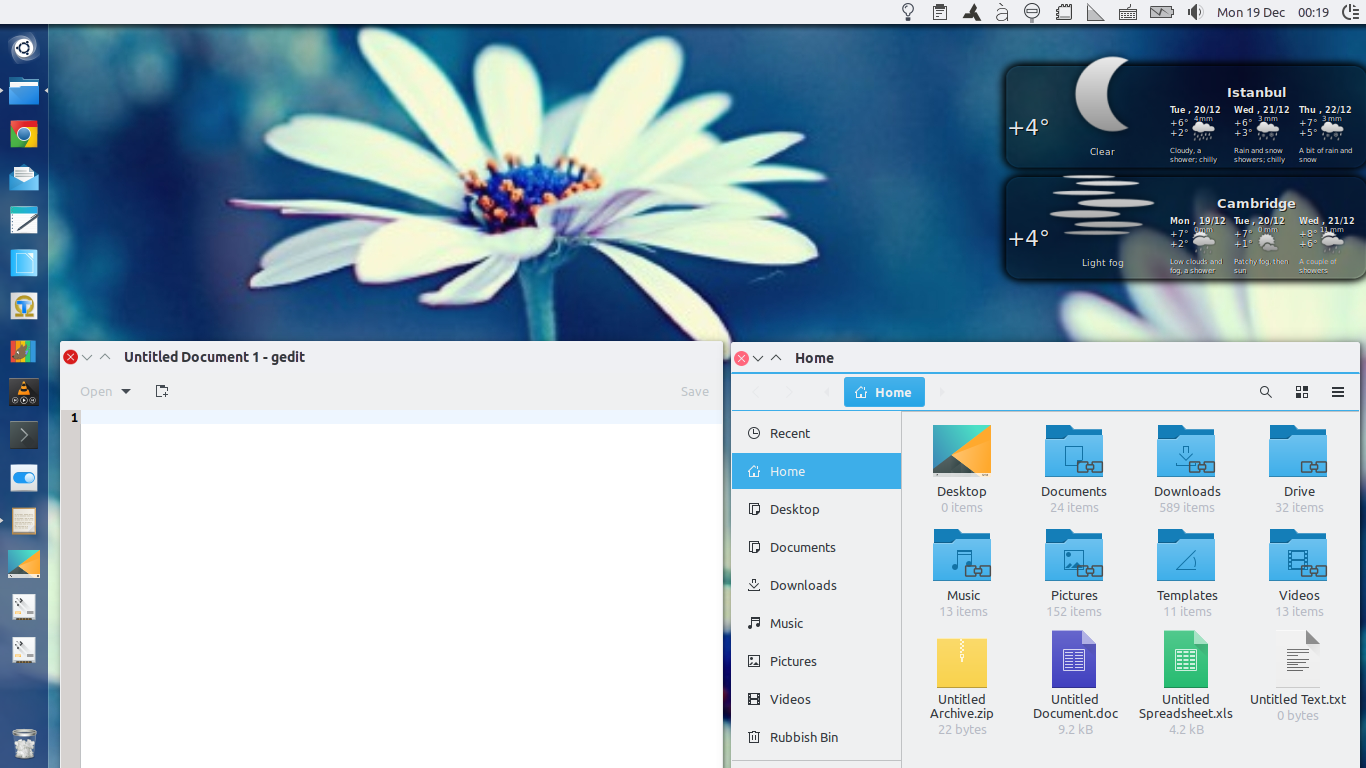
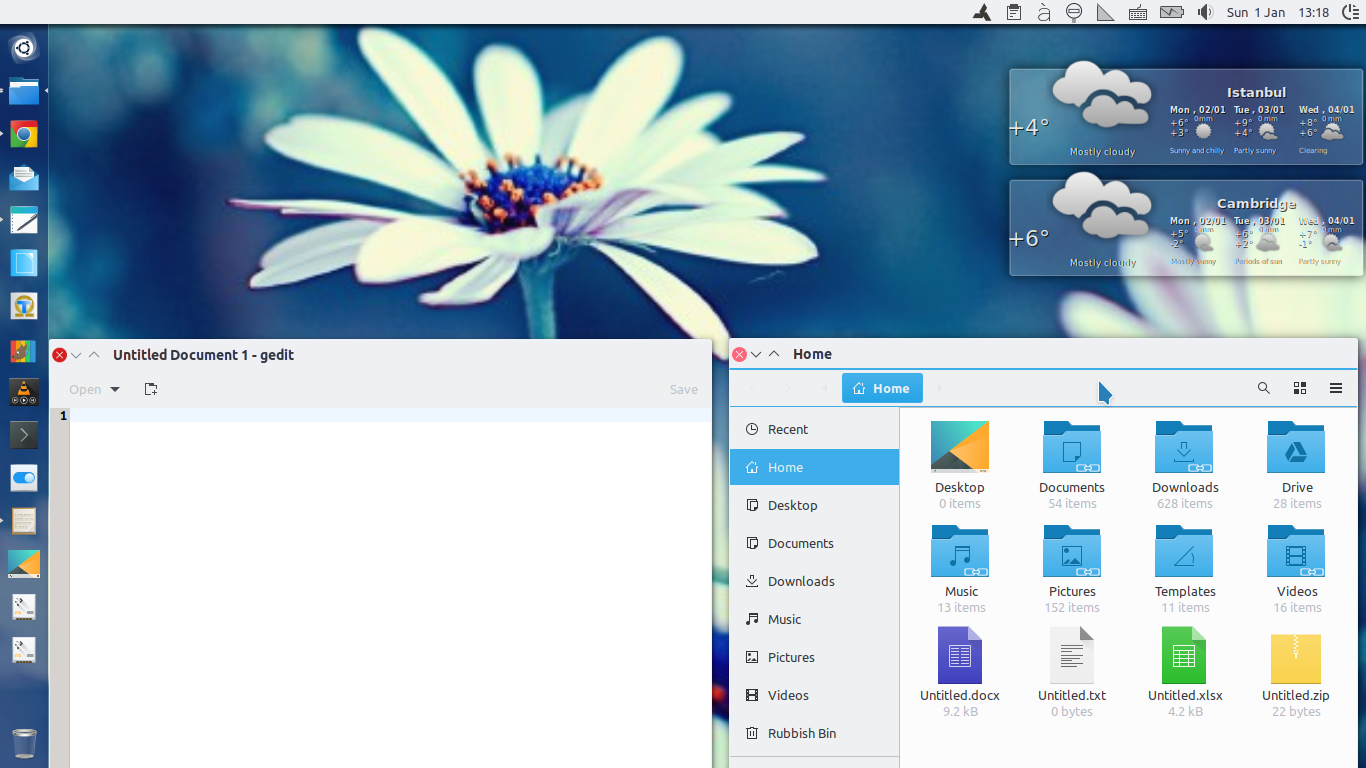
made nautilus window bgcolor lighter

diff --git a/Breeze-light-gtk/gtk-3.20/gtk.css b/Breeze-light-gtk/gtk-3.20/gtk.css
@@ -3817,3 +3817,8 @@ UnityPanelWidget,
 .unity-panel.menubar.menuitem:hover,
 .unity-panel.menubar .menuitem *:hover {
   border-bottom: 2px solid #3DAEE9; }
+
+.nautilus-window {
+  background-color: #FCFCFC; }
+  .nautilus-window notebook, .nautilus-window notebook > stack {
+    background-color: #FCFCFC; }
